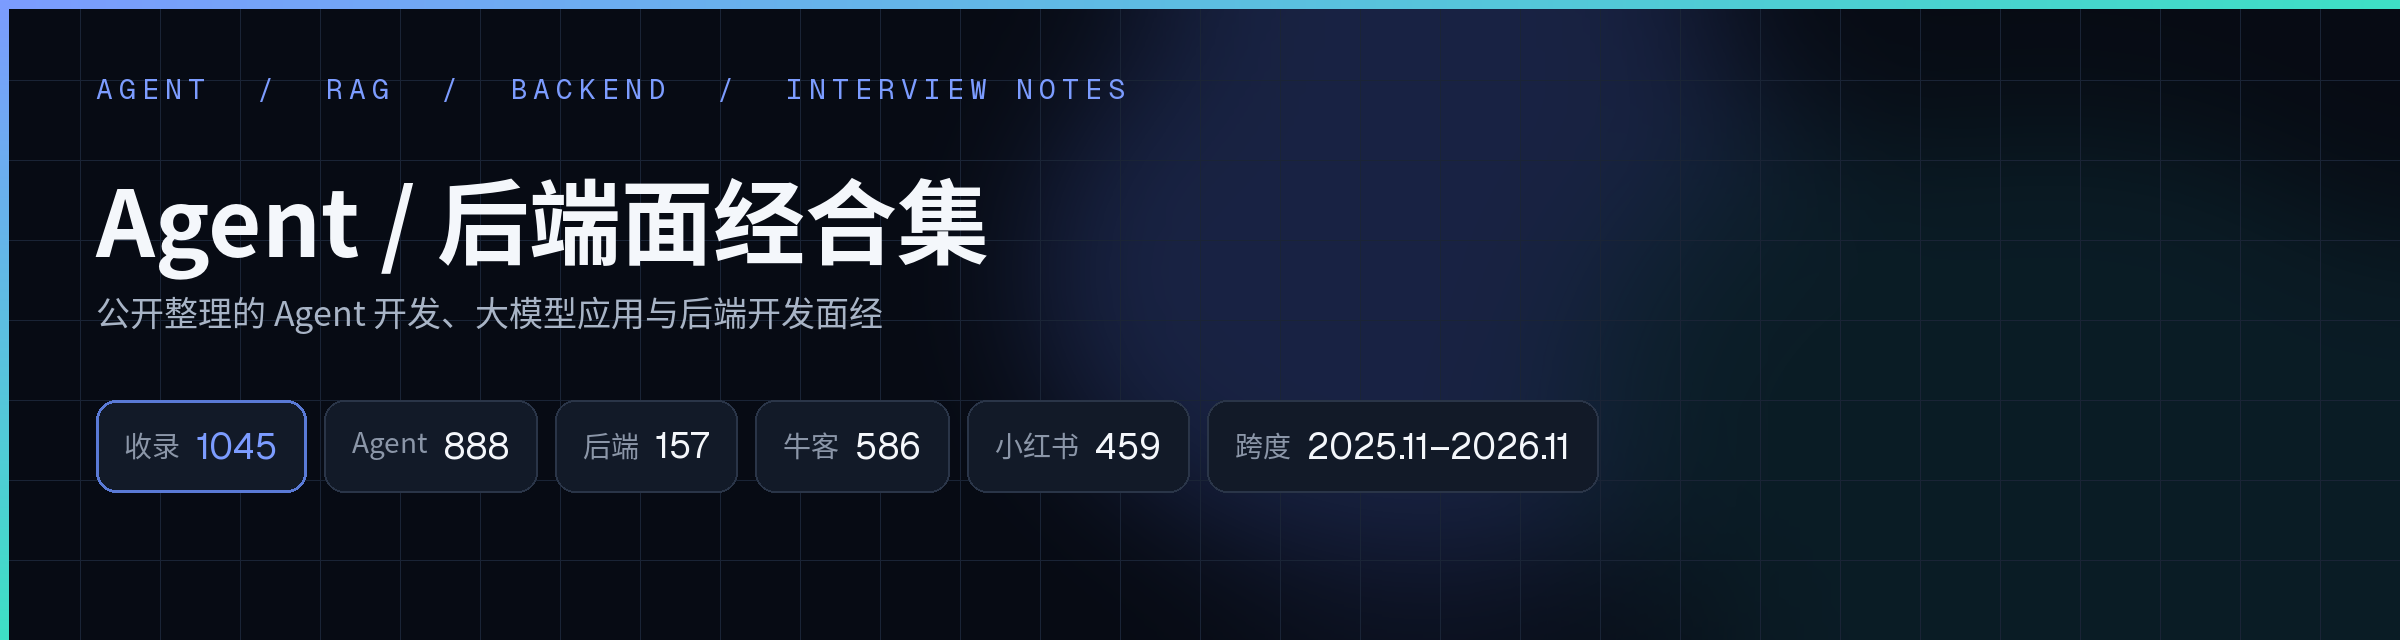
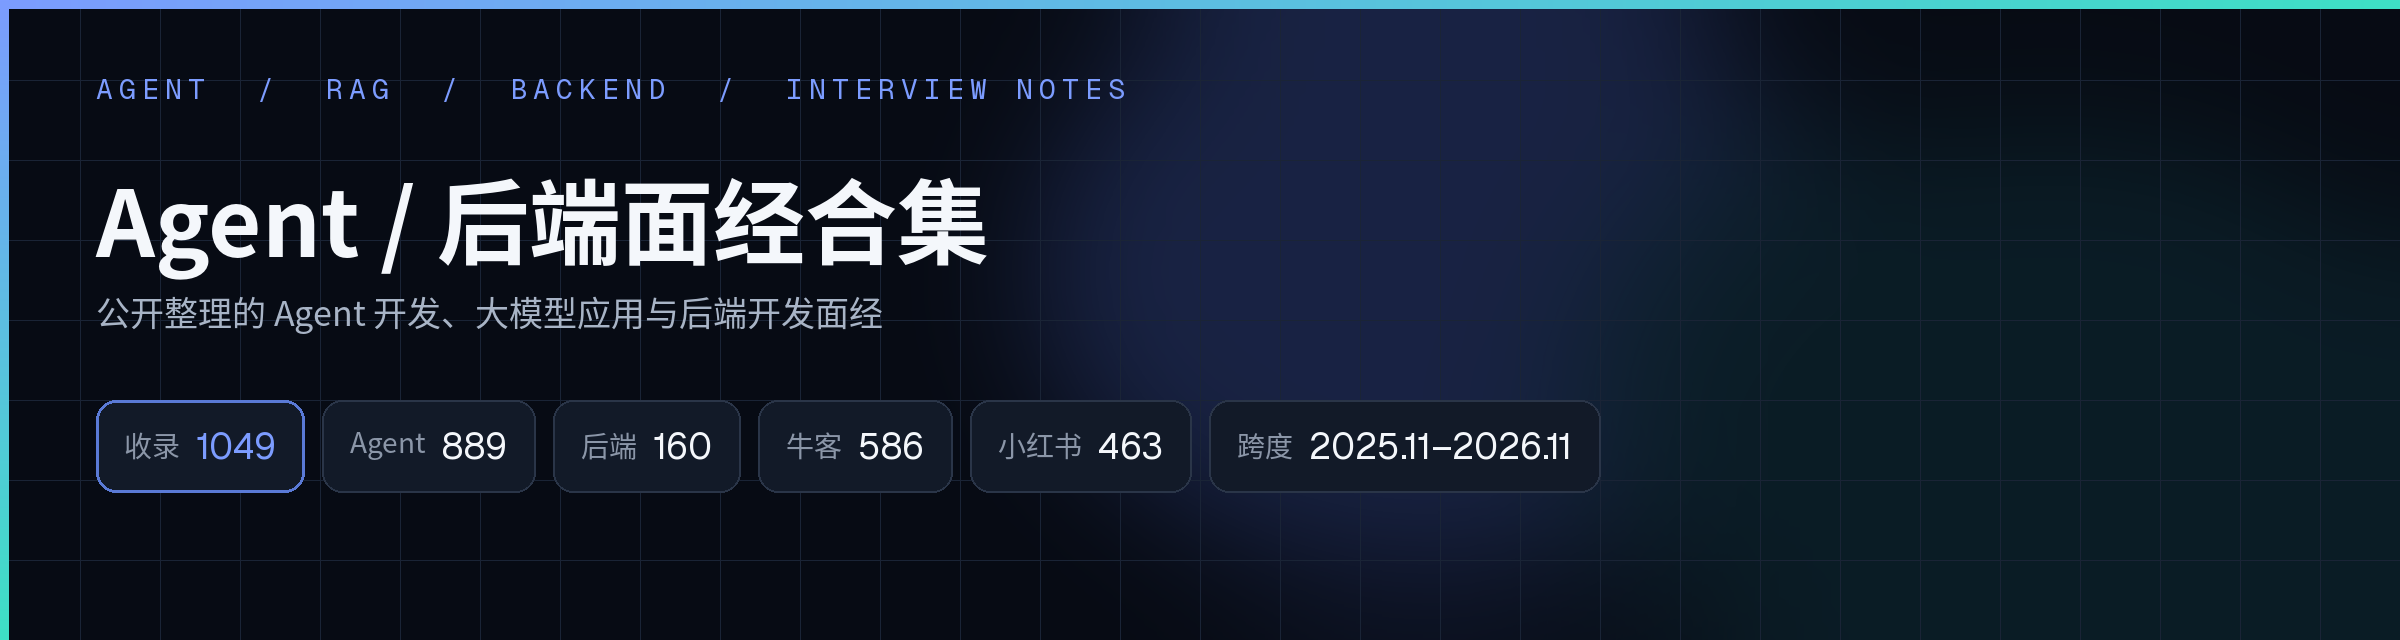
add 4 latest Xiaohongshu interview write-ups from 11-25
Sevener's Huawei general software second round, Honor AI software first round, Guangdong Telecom R&D first round, and Zhuhai Mobile software plus IT-support rounds.

Changed region(s): [[0.0938, 0.6562, 0.6562, 0.75]]

diff --git a/backend/2026-11-25-华为-通用软件开发-秋招-二面.md b/backend/2026-11-25-华为-通用软件开发-秋招-二面.md
@@ -1,0 +1,42 @@
+# 华为通用软件开发二面
+
+> 华为 · 软件开发工程师-通用软件（评论里作者称好像是终端云） · 秋招 · 二面 · 面完挂 · 详情页显示「2天前 广西」，报告按当天 2026-11-27 换算为 2026-11-25，这是相对日期换算，不是详情页上的月日原发日期，也不是面试日期；笔记 ID 时间戳为 11-25 17:55，与页面一致；记为 2026-11-25，落在当前继续搜集的窗口（用户要求继续找面经，本批收到 2026-11-27） · 作者 Sevener · 来源：[小红书](https://www.xiaohongshu.com/explore/6b06b0ab000000002c00f3cb)
+
+原帖标题按搜集报告为 27 届秋招华为通用软件开发二面面经。公司按标题记为华为。岗位按报告记为软件开发工程师-通用软件；评论里作者称好像是终端云，文中如实注明，不把岗位名改成终端云，也不改成纯后端职称。标签含 #后端开发 #java，题目偏后端，归入 backend/。轮次按标题记为二面。与一面同一天线下连面，各一个多小时；一面只显示「编辑于」，已暂扣，不与本篇合并，也不改已推文章。结果按报告为面完挂。发帖日按页面「2天前 广西」、报告当天 2026-11-27 换算为 2026-11-25，已如实标明是换算结果。笔记 ID 时间戳为 11-25 17:55，与页面一致，不以时间戳改写发帖日。时间线日期未标年份，不另推年份。报告写题目在正文，全文，非局部。作者 Sevener（主页 6012aa300000000001007d32），按完整主页 ID 单列，不与近名合并。不与同作者其他篇或仓库中其他华为篇合并。
+
+## 速览
+
+- **重点**：华为通用软件开发二面。岗位按报告记为软件开发工程师-通用软件，作者评论称好像是终端云，题目偏后端，归入 backend/。下面只整理搜集报告里已经可见的题意摘要，不是逐字原文，也不补答案。题目覆盖 TRUNCATE 与事务、Kafka 分区倾斜和扩容监控、Prometheus 与进程通信，以及项目中的异常、分布式锁和提示词注入。结果按报告为面完挂。
+- **难度**：华为通用软件开发秋招二面。与一面同一天线下连面，各一个多小时。发帖日期依据：详情页显示「2天前 广西」，报告按当天 2026-11-27 换算为 2026-11-25，这是相对日期换算，不是详情页上的月日原发日期，也不是面试日期。笔记 ID 时间戳为 11-25 17:55，与页面一致。时间线日期未标年份，不另推年份。
+- **题量**：仅按报告可见摘要整理，不把未见细节补成题目，也不声称全题已核。
+
+## 面经正文
+
+以下只整理搜集报告中已经看到的题意，不是逐字原文，也不补答案或手撕解法。本帖只见二面这一场，不拆文件，也不与已暂扣的一面合并。时间线日期未标年份，不另推年份。结果按报告为面完挂。
+
+时间线：8.31 投递；9.16 笔试；10.29 下午线下一面；10.29 当天线下二面（面完一面直接二面，面完挂）。
+
+### SQL 与数据库
+
+1. TRUNCATE 是什么？你了解过吗？
+2. 我向 AI 提了个问题，只是想让它帮我把这个表里面的内容删掉，结果它把整张表给删掉了。后面我插入数据的时候插入不了，怎么解决这个问题？
+3. MySQL 中的事务有哪些？默认是哪一个？假如我开了个事务 B，准备往数据库里写数据，但还未提交；这时候有一个事务 A，它要把数据库中的数据全部删除，这个事务 A 能完成提交吗？
+
+### Kafka
+
+1. 你的 Kafka 有几个分区？假如现在 Kafka 里有三个分区，其中一个很忙、另外两个很闲，这种 partition 倾斜怎么解决？
+2. 同样是倾斜的问题：我通过扩容增加机器的方案来缓解 Kafka 积压，但扩容的时候，有一台机器很忙、另外两台很闲，怎么解决这个问题？
+3. 你这个 Kafka 平滑扩容的问题，你是怎么想到的？现在不是有专门的扩容工具吗？而且我扩容的时候不都是要停机之后再去扩容吗？为什么还会出现生产高峰期的扩容问题？
+4. 你的 Kafka 都会去监控哪些指标？你是怎么通过观察这些指标，判断出是下游造成了 Kafka 消息积压的？
+
+### 监控与操作系统
+
+1. 你理解 Prometheus 的原理吗？这个东西是用什么语言写的？它是不是有一个可视化的监控大屏？这些是你自己搭的吗？
+2. 进程之间的通信有哪些方式？你的系统各个模块之间是怎么进行通信的？
+
+### 其他
+
+1. 你的第一个项目中有用到异常吗？你是怎么处理的？说说你项目中是怎么使用异常的？报告未还原项目名，这里不补。
+2. 你的第二个项目的分布式锁是怎么实现的？你的项目能支持延时任务吗？这个触发的时间具体在代码中是怎么实现触发的？报告未还原项目名，这里不补。
+3. 你的第三个项目是怎么考虑提示词注入的问题？你怎么防止实验室的同学用奇奇怪怪的提示词来无缘无故消耗你的 token？报告未还原项目名，这里不补。
+4. 第三个项目的向量数据库是你自己搭的吗？能不能说一下向量数据库的原理？你用的什么向量生成算法？余弦相似度索引吧。

diff --git a/backend/2026-11-25-珠海移动-软件开发IT支持-秋招-一面二面.md b/backend/2026-11-25-珠海移动-软件开发IT支持-秋招-一面二面.md
@@ -1,0 +1,46 @@
+# 珠海移动软开+IT支持一面二面
+
+> 珠海移动 · 软件开发工程师和 IT 技术支持 · 秋招 · 一面二面 · 11.23 挂（日期未标年份，不另推年份） · 详情页显示「2天前 广西」，报告按当天 2026-11-27 换算为 2026-11-25，这是相对日期换算，不是详情页上的月日原发日期，也不是面试日期；笔记 ID 时间戳为 11-25 16:33，与页面一致；记为 2026-11-25，落在当前继续搜集的窗口（用户要求继续找面经，本批收到 2026-11-27） · 作者 Sevener · 来源：[小红书](https://www.xiaohongshu.com/explore/6b069d68000000001601875e)
+
+原帖标题按搜集报告为 27 届秋招珠海移动软开+IT 支持一二面面经。公司按标题记为珠海移动。作者投了两个岗位：软件开发工程师（技术岗）和 IT 技术支持。软开部分有真实技术题，归入 backend/；IT 支持那场偏产品/销售认知，出范围，但与软开一面、线下二面终面写在同一原帖，按指示不拆成两篇，以免失真，文中分节写清两场岗位。一面同一天连面两场，两场加起来不到半小时；另有线下二面终面（群面）。结果按报告为 11.23 挂，日期未标年份，不另推年份。发帖日按页面「2天前 广西」、报告当天 2026-11-27 换算为 2026-11-25，已如实标明是换算结果。笔记 ID 时间戳为 11-25 16:33，与页面一致，不以时间戳改写发帖日。时间线日期未标年份，不另推年份。报告写题目在正文，全文，非局部。作者 Sevener（主页 6012aa300000000001007d32），按完整主页 ID 单列，不与近名合并。不与同作者其他篇合并。
+
+## 速览
+
+- **重点**：珠海移动软件开发工程师一面、IT 技术支持一面，以及线下二面终面。软开部分有技术题，归入 backend/；IT 支持那场偏销售，同帖保留，不拆文件。下面只整理搜集报告里已经可见的题意摘要，不是逐字原文，也不补答案。软开问了 HTTP/HTTPS、Redis 和项目；IT 支持问运营商产品和销售经历；二面是群面，报告只概括项目问题和人际关系题。结果按报告为 11.23 挂。
+- **难度**：珠海移动秋招。一面同一天连面两场，两场加起来不到半小时；另有线下二面终面。发帖日期依据：详情页显示「2天前 广西」，报告按当天 2026-11-27 换算为 2026-11-25，这是相对日期换算，不是详情页上的月日原发日期，也不是面试日期。笔记 ID 时间戳为 11-25 16:33，与页面一致。时间线日期未标年份，不另推年份。
+- **题量**：仅按报告可见摘要整理，不把未见细节补成题目，也不声称全题已核。
+
+## 面经正文
+
+以下只整理搜集报告中已经看到的题意，不是逐字原文，也不补答案。软件开发工程师一面、IT 技术支持一面和二面终面同帖，不拆文件。时间线日期未标年份，不另推年份。结果按报告为 11.23 挂。
+
+时间线：9.17 网申投递（两个岗位都投了）；10.21 8:58 软件开发工程师一面；10.21 9:43 IT 技术支持一面；10.24 线上笔试；11.6 珠海线下二面终面；11.23 挂。
+
+### 软件开发工程师一面
+
+1. 先做一下自我介绍。
+2. HTTP 和 HTTPS 有什么区别？
+3. Redis 一般用在哪些场景？
+4. Redis 和 MySQL 有什么区别？
+5. 你觉得哪个项目最难？难点是什么？
+6. 这个项目几个人做的？你负责什么？报告未还原项目名，这里不补。
+7. 倾向哪些城市？
+8. 如果珠海移动给你 offer，你来的概率有多大？
+9. AI 相关知识是自学的还是学校有课程？
+
+### IT 技术支持一面
+
+这场偏产品/销售认知，不是后端技术面。按指示与软开一面同帖保留，以免拆开失真。
+
+1. 花 2 分钟介绍一下自己。
+2. 对三家运营商有什么了解？重点说移动。
+3. 移动在政企线条有什么主要产品？
+4. 你有销售经历吗？学校有没有类似完成任务的经历？
+5. 愿意做销售相关的工作吗？了解移动客户经理吗？
+6. 了解运营商的业绩压力和销售任务吗？
+7. 你觉得移动在算力领域有发展前景吗？
+8. 为什么想来珠海？
+
+### 二面
+
+群面，七八个人，对面 5 个面试官轮流点名；作者被问到一些项目问题，不是很难；其他人有人际关系题。有的人一场可能只说了自我介绍。报告未还原具体项目题面，这里不补。

diff --git a/agent/2026-11-25-荣耀-AI软件开发-秋招-一面.md b/agent/2026-11-25-荣耀-AI软件开发-秋招-一面.md
@@ -1,0 +1,41 @@
+# 荣耀AI软件开发线下一面
+
+> 荣耀 · AI软件开发工程师（AI Coding / Agent 方向） · 秋招 · 一面 · 面完挂 · 详情页显示「2天前 广西」，报告按当天 2026-11-27 换算为 2026-11-25，这是相对日期换算，不是详情页上的月日原发日期，也不是面试日期；笔记 ID 时间戳为 11-25 17:31，与页面一致；记为 2026-11-25，落在当前继续搜集的窗口（用户要求继续找面经，本批收到 2026-11-27） · 作者 Sevener · 来源：[小红书](https://www.xiaohongshu.com/explore/6b06aaf7000000002b013c79)
+
+原帖标题按搜集报告为 27 届秋招荣耀 AI 软件开发线下一面面经。公司按标题记为荣耀。岗位按报告记为 AI 软件开发工程师（AI Coding / Agent 方向），归入 agent/。轮次按标题记为线下一面，约 30 分钟。结果按报告为面完挂。作者写全程就聊两个项目，没有八股，也没有手撕。发帖日按页面「2天前 广西」、报告当天 2026-11-27 换算为 2026-11-25，已如实标明是换算结果。笔记 ID 时间戳为 11-25 17:31，与页面一致，不以时间戳改写发帖日。时间线日期未标年份，不另推年份。报告写题目在正文，全文，非局部。作者 Sevener（主页 6012aa300000000001007d32），按完整主页 ID 单列，不与近名合并。不与同作者其他篇或仓库中已有荣耀 AI 应用开发篇合并。
+
+## 速览
+
+- **重点**：荣耀 AI 软件开发线下一面。岗位按报告记为 AI 软件开发工程师（AI Coding / Agent 方向），归入 agent/。下面只整理搜集报告里已经可见的题意摘要，不是逐字原文，也不补答案。题目先围绕一个项目的模块、部署和数据，再问 AI 项目、Harness、上下文管理和 Agent 实现，最后问学习和实习经历。作者写全程就聊两个项目，没有八股，也没有手撕。结果按报告为面完挂。
+- **难度**：荣耀 AI 软件开发秋招线下一面，约 30 分钟。发帖日期依据：详情页显示「2天前 广西」，报告按当天 2026-11-27 换算为 2026-11-25，这是相对日期换算，不是详情页上的月日原发日期，也不是面试日期。笔记 ID 时间戳为 11-25 17:31，与页面一致。时间线日期未标年份，不另推年份。
+- **题量**：仅按报告可见摘要整理，不把未见细节补成题目，也不声称全题已核。
+
+## 面经正文
+
+以下只整理搜集报告中已经看到的题意，不是逐字原文，也不补答案。本帖只见一面这一场，不拆文件。时间线日期未标年份，不另推年份。结果按报告为面完挂。作者写全程就聊两个项目，没有八股，也没有手撕。报告未还原项目名，这里不补。
+
+时间线：9.17 投递；10.9 笔试；10.23 面试，面完挂。
+
+### 项目
+
+1. 先介绍一下你这个项目。
+2. 你在项目里做了哪些部分？用了哪些技术？遇到什么困难？
+3. 项目几个人？分几个模块？你负责哪个？
+4. 这个项目的难点在哪里？
+5. 云端是单机还是集群部署？
+6. 现在流量有多少？
+7. 数据层压力挺大，后面打算怎么处理？
+8. 这些数据拿来做什么？展示逻辑是什么？
+
+### AI 项目
+
+1. 你有做过 AI 相关的项目吗？
+2. 这个项目挺大的，一个人做的？
+3. 你了解 Harness 吗？
+4. 上下文管理具体怎么做的？
+5. 你的 Agent 是怎么实现的？
+
+### 其他
+
+1. 本科课程和 Java 是怎么学的？
+2. 你没有实习经历？

diff --git a/backend/2026-11-25-广东电信-研发智能云网-秋招-一面.md b/backend/2026-11-25-广东电信-研发智能云网-秋招-一面.md
@@ -1,0 +1,28 @@
+# 广东电信研发+智能云网一面
+
+> 广东电信 · 研发工程师和智能云网工程师 · 秋招 · 一面 · 结果未注明 · 详情页显示「2天前 广西」，报告按当天 2026-11-27 换算为 2026-11-25，这是相对日期换算，不是详情页上的月日原发日期，也不是面试日期；笔记 ID 时间戳为 11-25 17:22，与页面一致；记为 2026-11-25，落在当前继续搜集的窗口（用户要求继续找面经，本批收到 2026-11-27） · 作者 Sevener · 来源：[小红书](https://www.xiaohongshu.com/explore/6b06a8e3000000002b028809)
+
+原帖标题按搜集报告写作「27届秋招广东身电信研发+智能云网一面面经」，其中「广东身电信」是报告笔误，按指示写成广东电信。公司按更正后的名称记为广东电信。岗位按报告为作者报的研发工程师和智能云网工程师，base 广州越秀，归入 backend/，不把未见的正式编制名补全。轮次按标题记为一面，线上，两个面试官，主要一个问。结果未见，不猜测。作者写没问八股，全是项目问题，问得不深。发帖日按页面「2天前 广西」、报告当天 2026-11-27 换算为 2026-11-25，已如实标明是换算结果。笔记 ID 时间戳为 11-25 17:22，与页面一致，不以时间戳改写发帖日。已读材料没有写出单独的面试日期。报告写题目在正文，全文，非局部。作者 Sevener（主页 6012aa300000000001007d32），按完整主页 ID 单列，不与近名合并。不与同作者其他篇合并。
+
+## 速览
+
+- **重点**：广东电信研发工程师和智能云网工程师一面。岗位按报告记为这两个岗位，归入 backend/。下面只整理搜集报告里已经可见的题意摘要，不是逐字原文，也不补答案。题目围绕设备信息如何进入 Kafka、Redis 与 MongoDB 的写入路径和一致性，以及运营商和互联网 offer 怎么选。作者写没问八股，全是项目问题，问得不深。结果未见，不猜。
+- **难度**：广东电信秋招一面，线上。发帖日期依据：详情页显示「2天前 广西」，报告按当天 2026-11-27 换算为 2026-11-25，这是相对日期换算，不是详情页上的月日原发日期，也不是面试日期。笔记 ID 时间戳为 11-25 17:22，与页面一致。已读材料没有写出单独的面试日期。
+- **题量**：仅按报告可见摘要整理，不把未见细节补成题目，也不声称全题已核。
+
+## 面经正文
+
+以下只整理搜集报告中已经看到的题意，不是逐字原文，也不补答案。本帖只见一面这一场，不拆文件。已读材料没有写出单独的面试日期，也没有写明结果。作者写没问八股，全是项目问题，问得不深。报告未还原项目名，这里不补。
+
+1. 这个项目用在什么样的实际场景上？
+2. 前端设备的信息你是怎么收集的？这块需要你负责吗？
+3. 不是你负责也没关系，你是从哪里拿到设备信息、写到 Kafka 里的？
+4. 写入的时候需要用 Redis 吗？写到 MongoDB 的过程中会用缓存吗？
+5. 你是从 Kafka 拿到消息写入 Redis 的吗？
+6. 是同时写 MongoDB，还是通过 Redis 再到 MongoDB？
+7. 前端查询直接查 Redis，那怎么保证 Redis 和 MongoDB 的数据一致性？
+8. 前端查询是同时查 Redis 吗？Redis 查到就直接返回，没查到再查 MongoDB？
+
+其他：
+
+1. 如果运营商和互联网公司都给你 offer，你会怎么考虑？
